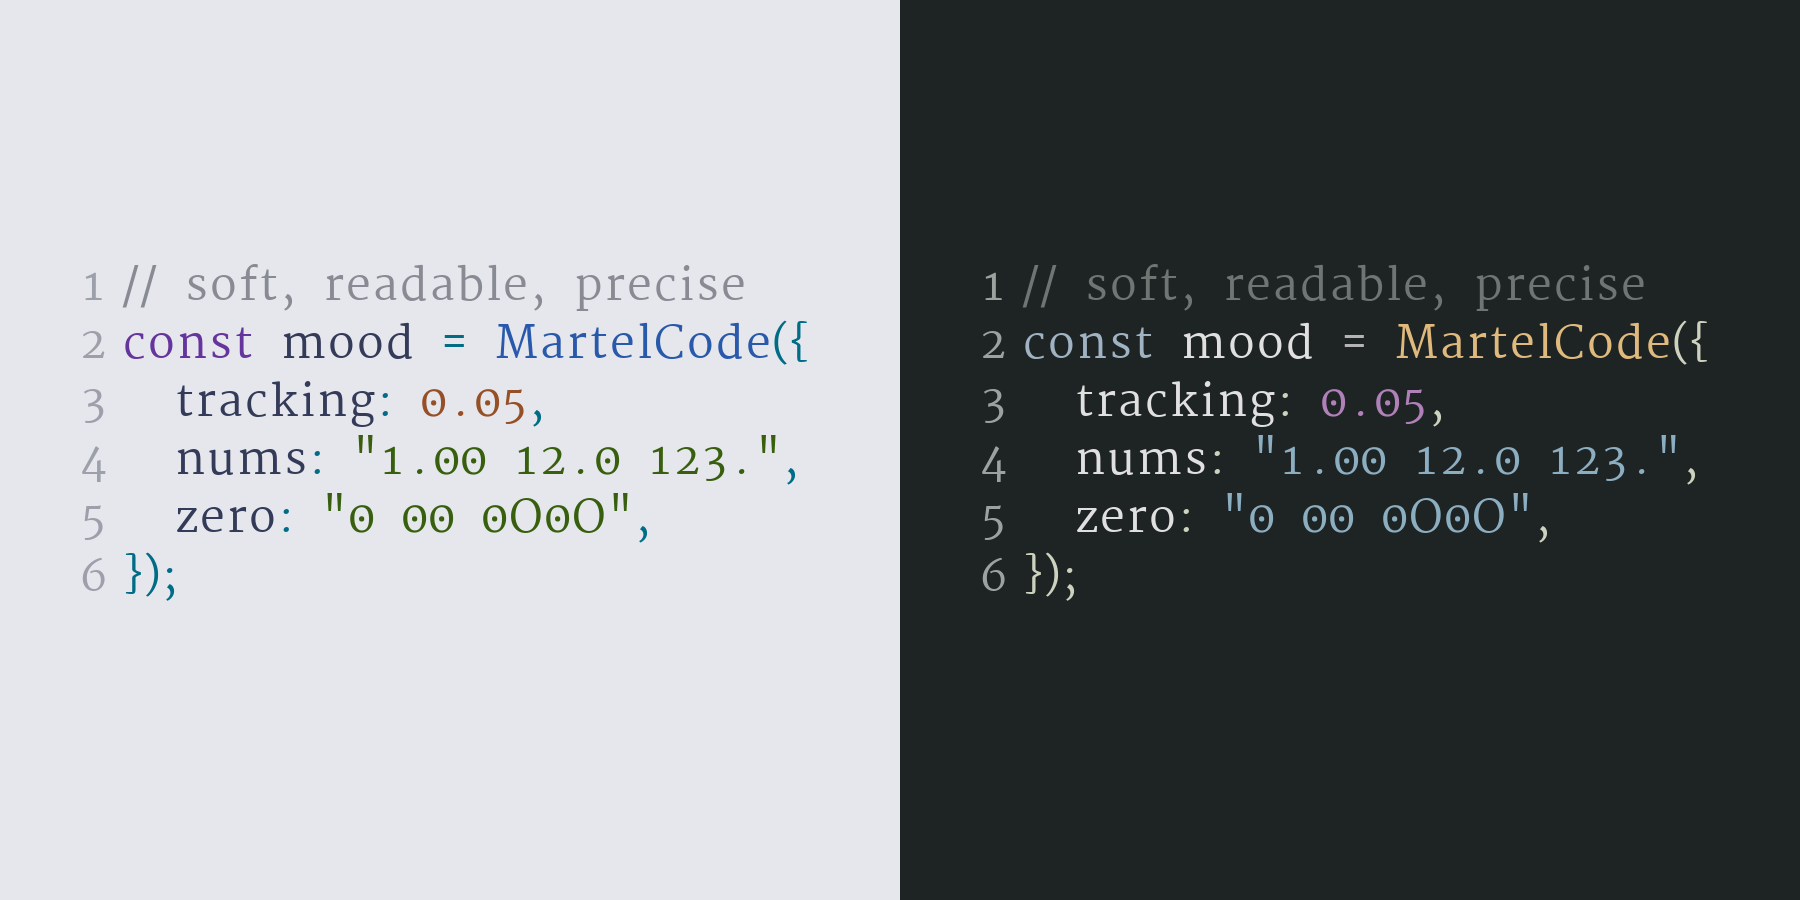
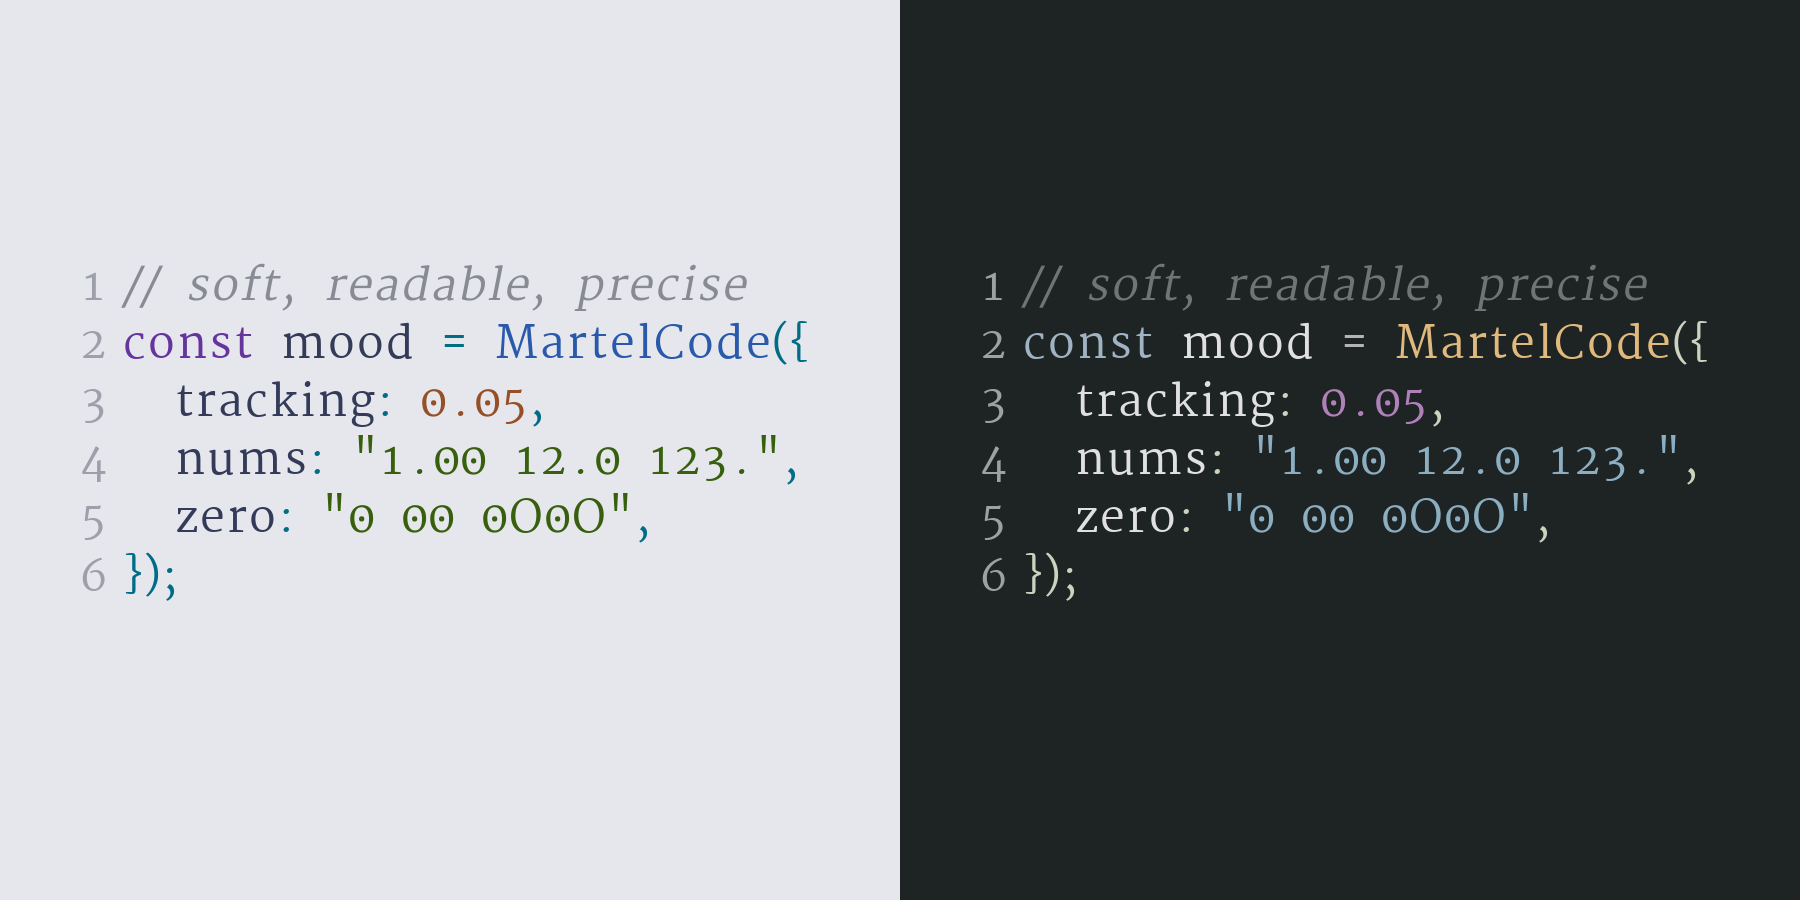
Update README download links and cover comments

diff --git a/scripts/generate_cover.py b/scripts/generate_cover.py
@@ -129,6 +129,7 @@ def draw_code_sample(
     xy: tuple[int, int],
     palette: dict[str, tuple[int, int, int]],
     code_font: ImageFont.FreeTypeFont,
+    comment_font: ImageFont.FreeTypeFont,
 ) -> None:
     x, y = xy
     gutter_x = x
@@ -139,13 +140,15 @@ def draw_code_sample(
         draw.text((gutter_x, yy), str(line_no).rjust(2), font=code_font, fill=palette["line"])
         xx = code_x
         for kind, text in segments:
-            draw.text((xx, yy), text, font=code_font, fill=palette.get(kind, palette["plain"]))
-            xx += round(draw.textlength(text, font=code_font))
+            segment_font = comment_font if kind == "comment" else code_font
+            draw.text((xx, yy), text, font=segment_font, fill=palette.get(kind, palette["plain"]))
+            xx += round(draw.textlength(text, font=segment_font))
 
 
 def main() -> None:
     parser = argparse.ArgumentParser()
     parser.add_argument("--font", default="build/fonts/MartelCode-Regular.ttf")
+    parser.add_argument("--italic-font", default=None)
     parser.add_argument("--out", default="assets/martel-code-cover.png")
     parser.add_argument("--palette-config", default="config/cover-palettes.json")
     parser.add_argument("--slime-theme", default=None)
@@ -155,8 +158,11 @@ def main() -> None:
     args = parser.parse_args()
 
     font_path = resolve(args.font)
+    italic_font_path = resolve(args.italic_font) if args.italic_font is not None else font_path.with_name("MartelCode-Italic.ttf")
     if not font_path.exists():
         raise FileNotFoundError(f"Missing {font_path}; run `make build` first")
+    if not italic_font_path.exists():
+        raise FileNotFoundError(f"Missing {italic_font_path}; run `make release-fonts` first")
 
     if args.slime_theme is not None or args.tokyo_light_theme is not None:
         if args.slime_theme is None or args.tokyo_light_theme is None:
@@ -185,10 +191,11 @@ def main() -> None:
     draw.rectangle((half_width, 0, width, height), fill=slime["background"])
 
     code_font = font(font_path, 44)
+    comment_font = font(italic_font_path, 44)
     top = 250
     rail_margin = 54
-    draw_code_sample(draw, (rail_margin, top), tokyo, code_font)
-    draw_code_sample(draw, (half_width + rail_margin, top), slime, code_font)
+    draw_code_sample(draw, (rail_margin, top), tokyo, code_font, comment_font)
+    draw_code_sample(draw, (half_width + rail_margin, top), slime, code_font, comment_font)
 
     out = resolve(args.out)
     out.parent.mkdir(parents=True, exist_ok=True)

diff --git a/README.md b/README.md
@@ -4,6 +4,17 @@
 
 A reproducible, programmatic derivation of the open-source [Martel](https://github.com/typeoff/martel) font for code/editor use.
 
+## Download
+
+Download the latest packaged fonts from the [GitHub Releases page](https://github.com/colelawrence/martel-code/releases/latest).
+
+Direct downloads for v0.2.0:
+
+- [All font formats](https://github.com/colelawrence/martel-code/releases/download/v0.2.0/martel-code-fonts.zip)
+- [WOFF2 web fonts](https://github.com/colelawrence/martel-code/releases/download/v0.2.0/martel-code-woff2.zip)
+- [OTF fonts](https://github.com/colelawrence/martel-code/releases/download/v0.2.0/martel-code-otf.zip)
+- [TTF fonts](https://github.com/colelawrence/martel-code/releases/download/v0.2.0/martel-code-ttf.zip)
+
 Current transform goals:
 
 - rename the family to **Martel Code**;
@@ -112,7 +123,7 @@ The punctuation allowlist is deliberately small so we do not accidentally “nor
 
 ## Cover image
 
-`make cover` renders `assets/martel-code-cover.png` from the committed local palette snapshot at `config/cover-palettes.json` and the committed Regular font at `fonts/ttf/MartelCode-Regular.ttf`.
+`make cover` renders `assets/martel-code-cover.png` from the committed local palette snapshot at `config/cover-palettes.json`, the committed Regular font at `fonts/ttf/MartelCode-Regular.ttf`, and the committed Italic font for comment styling.
 
 The cover generator is self-contained by default. It also has explicit `--slime-theme` and `--tokyo-light-theme` CLI overrides for maintainers who want to refresh the local palette snapshot from external VS Code theme files, but the published repo does not depend on those files.
 